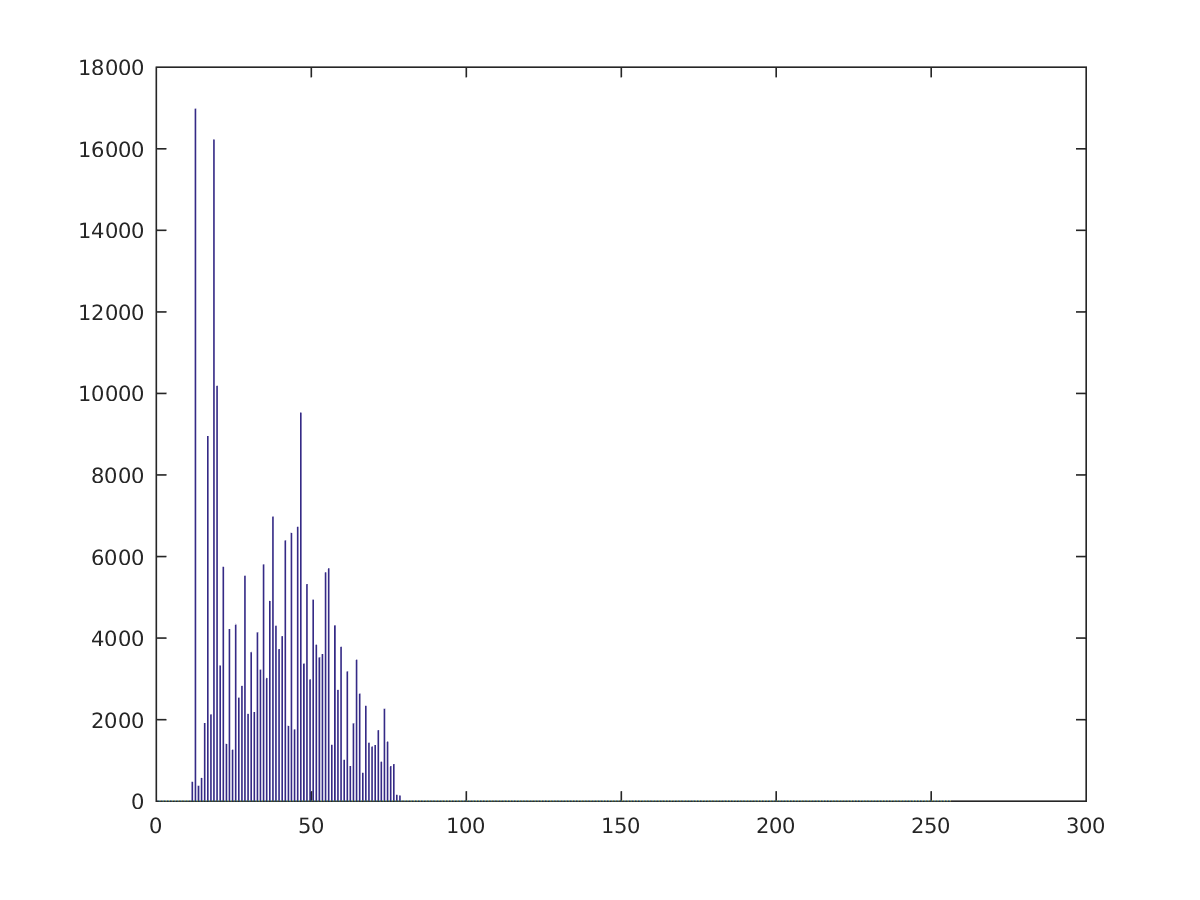
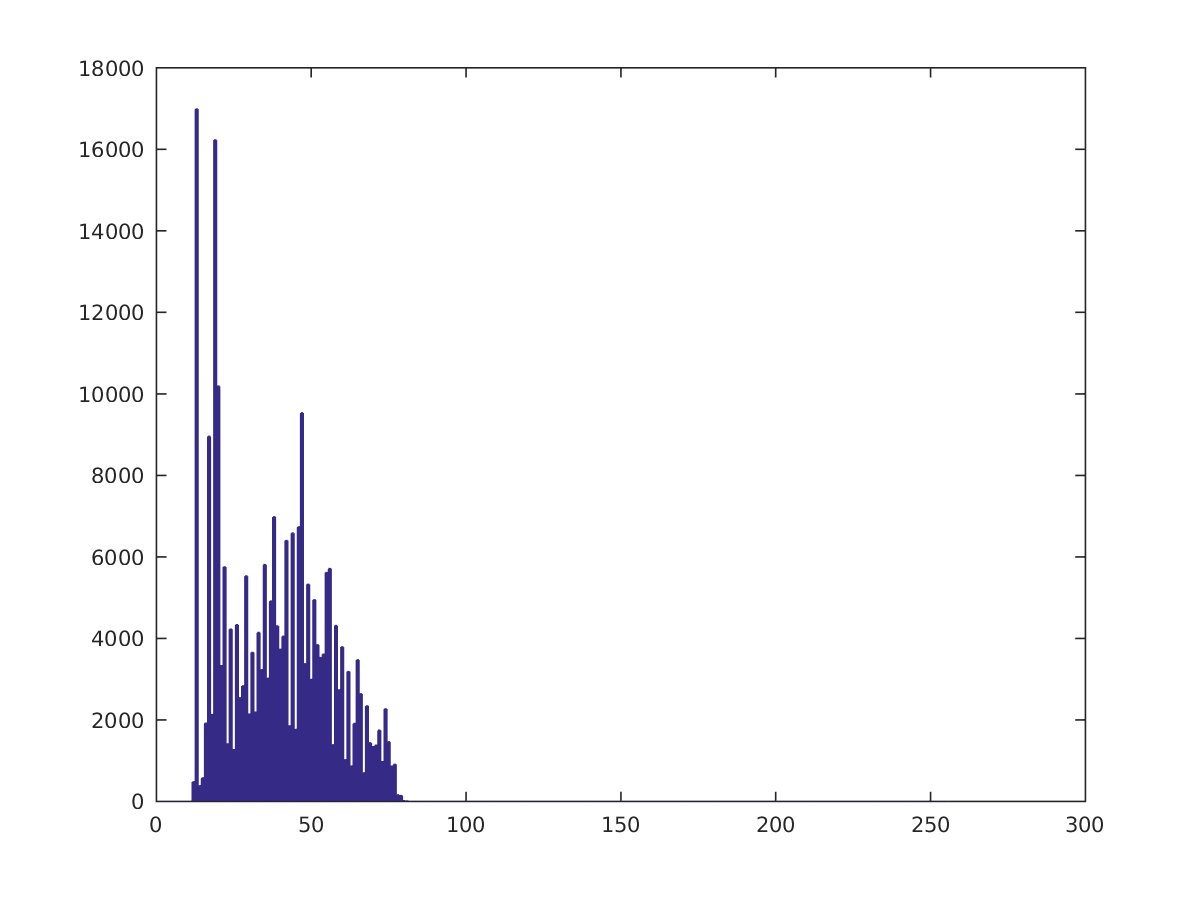
arrumei a demora no tempo

diff --git a/Laboratorio 5/Quest2/Quest2.m b/Laboratorio 5/Quest2/Quest2.m
@@ -1,7 +1,7 @@
 clc;clear;
 %%histograma original fig_lista3_1
 img = imread('fig_lista3_1.png');
-histograma = zeros(256);
+histograma = zeros(1,256);
 oi = 0;
 tamimg = size(img);
 
@@ -11,13 +11,12 @@ for linha = 1:1:tamimg(1)
    histograma(oi) = histograma (oi) + 1;
  end
 end
-%eixo_x = 0:1:255;
-bar(histograma,1);
-saveas(gcf,'Q2_hist_fig.png')
+bar(histograma);
+saveas(gcf,'Q2_hist_fig.png');
 %%fim histograma original 
 %%histograma original einstein
 einst = imread('einsteinLowContrast.png');
-histeinst = zeros(256);
+histeinst = zeros(1,256);
 temp = 0;
 tamimg = size(einst);
 
@@ -28,9 +27,8 @@ for linha = 1:1:tamimg(1)
    histeinst(temp) = histeinst (temp) + 1;
  end
 end
-eixo_x = 0:1:255;
-bar(eixo_x,histeinst,1);
-saveas(gcf,'hist_eintein.png')
+bar(histeinst);
+saveas(gcf,'hist_eintein.png');
 %%fim histograma einstein
 
 %%equalizar os histogramas
